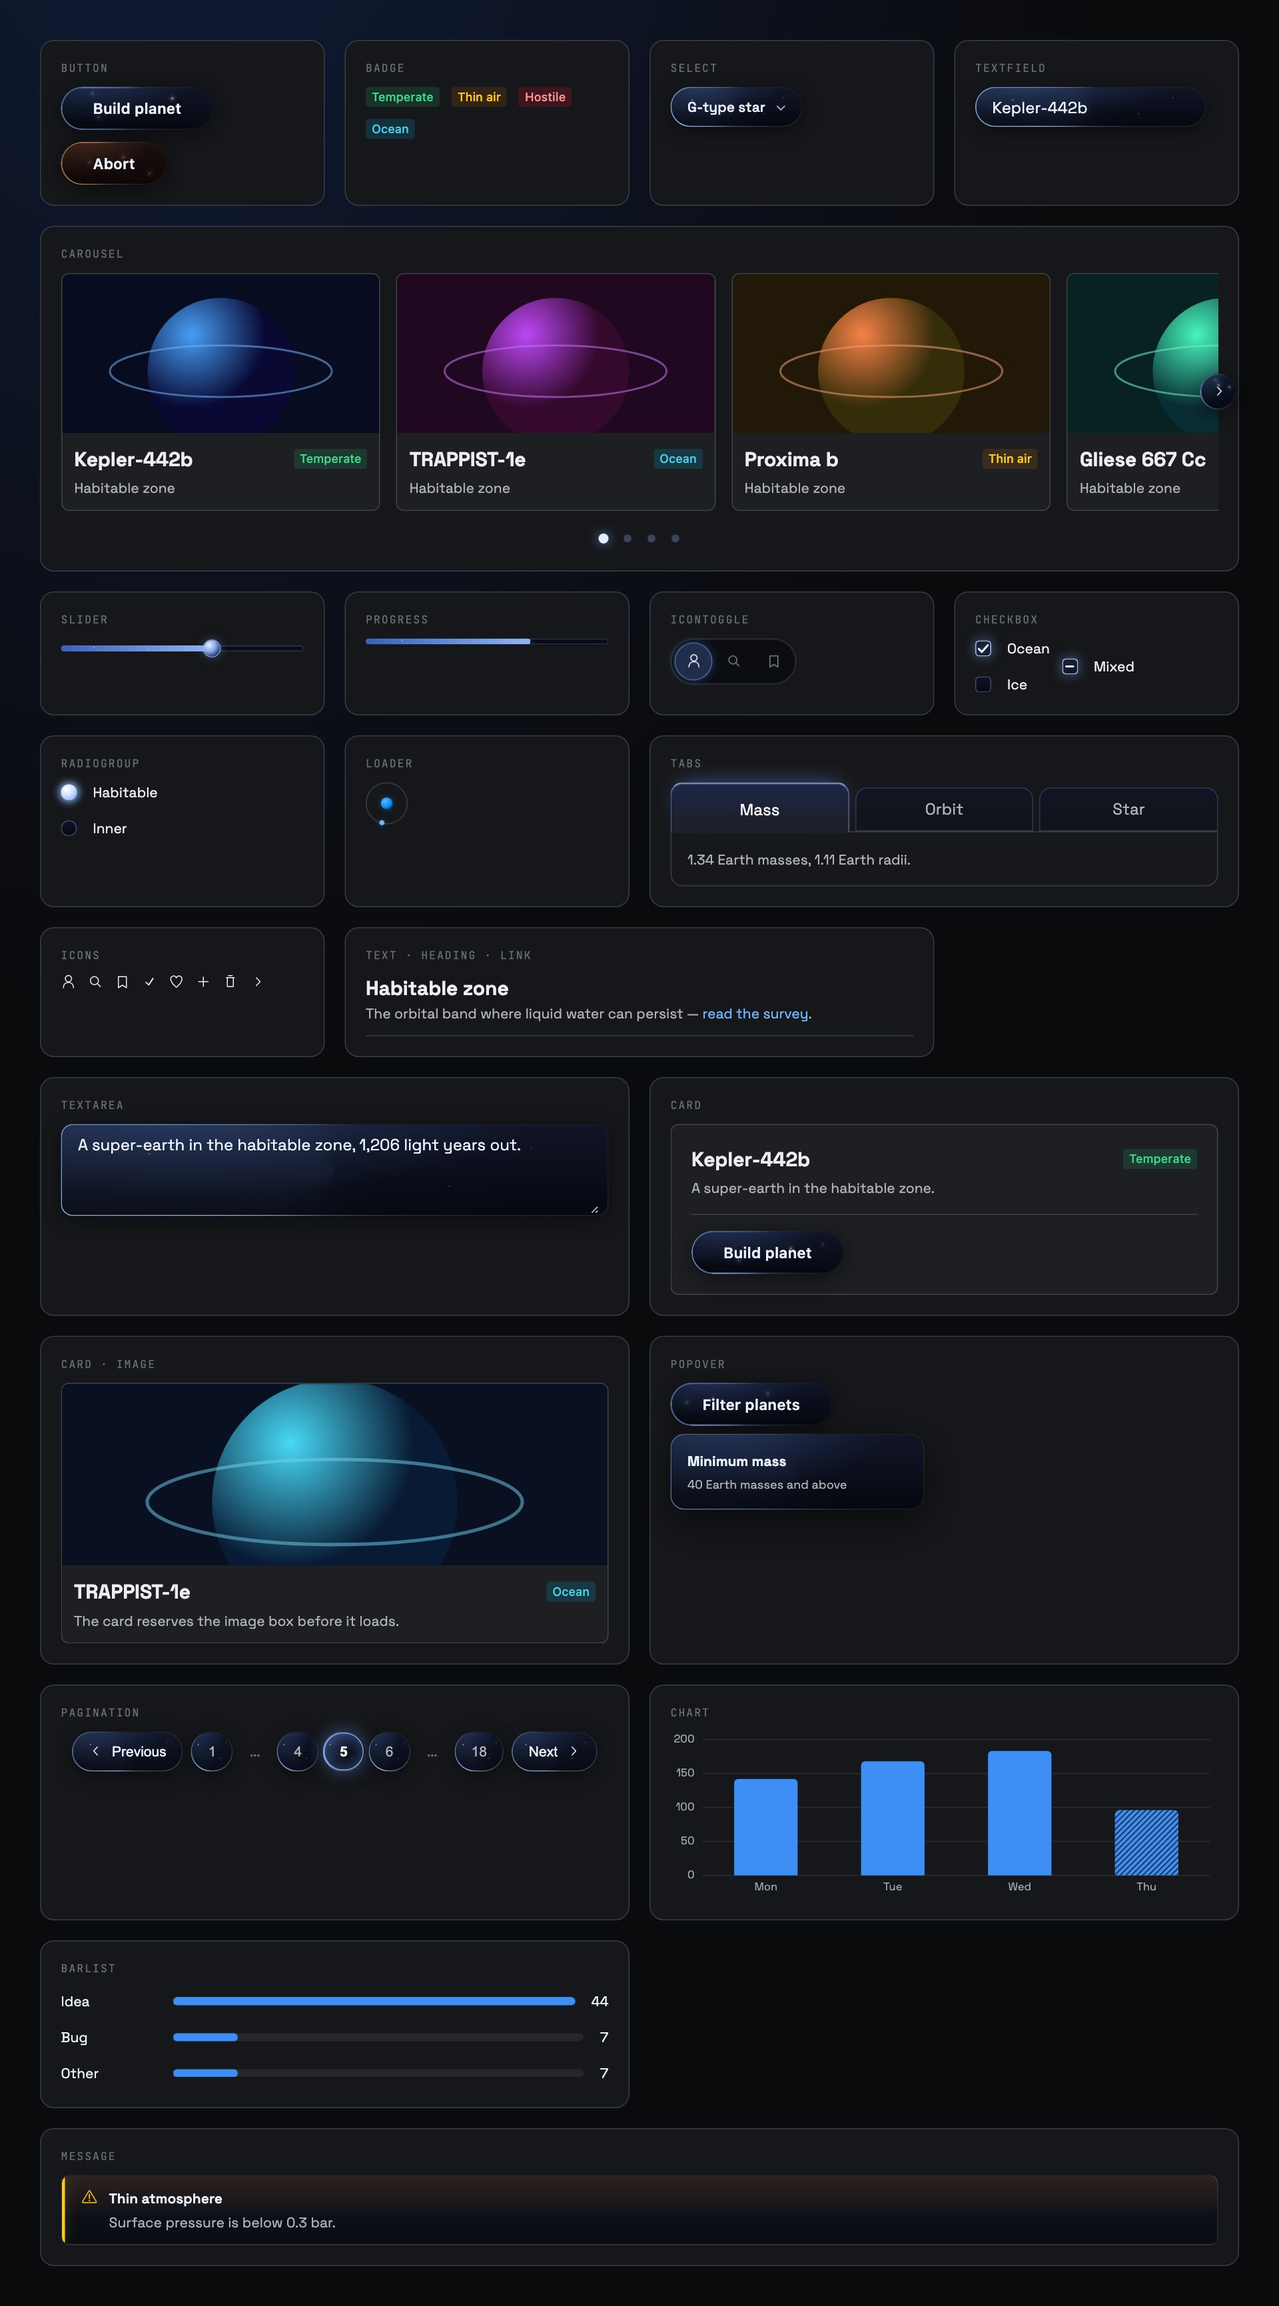
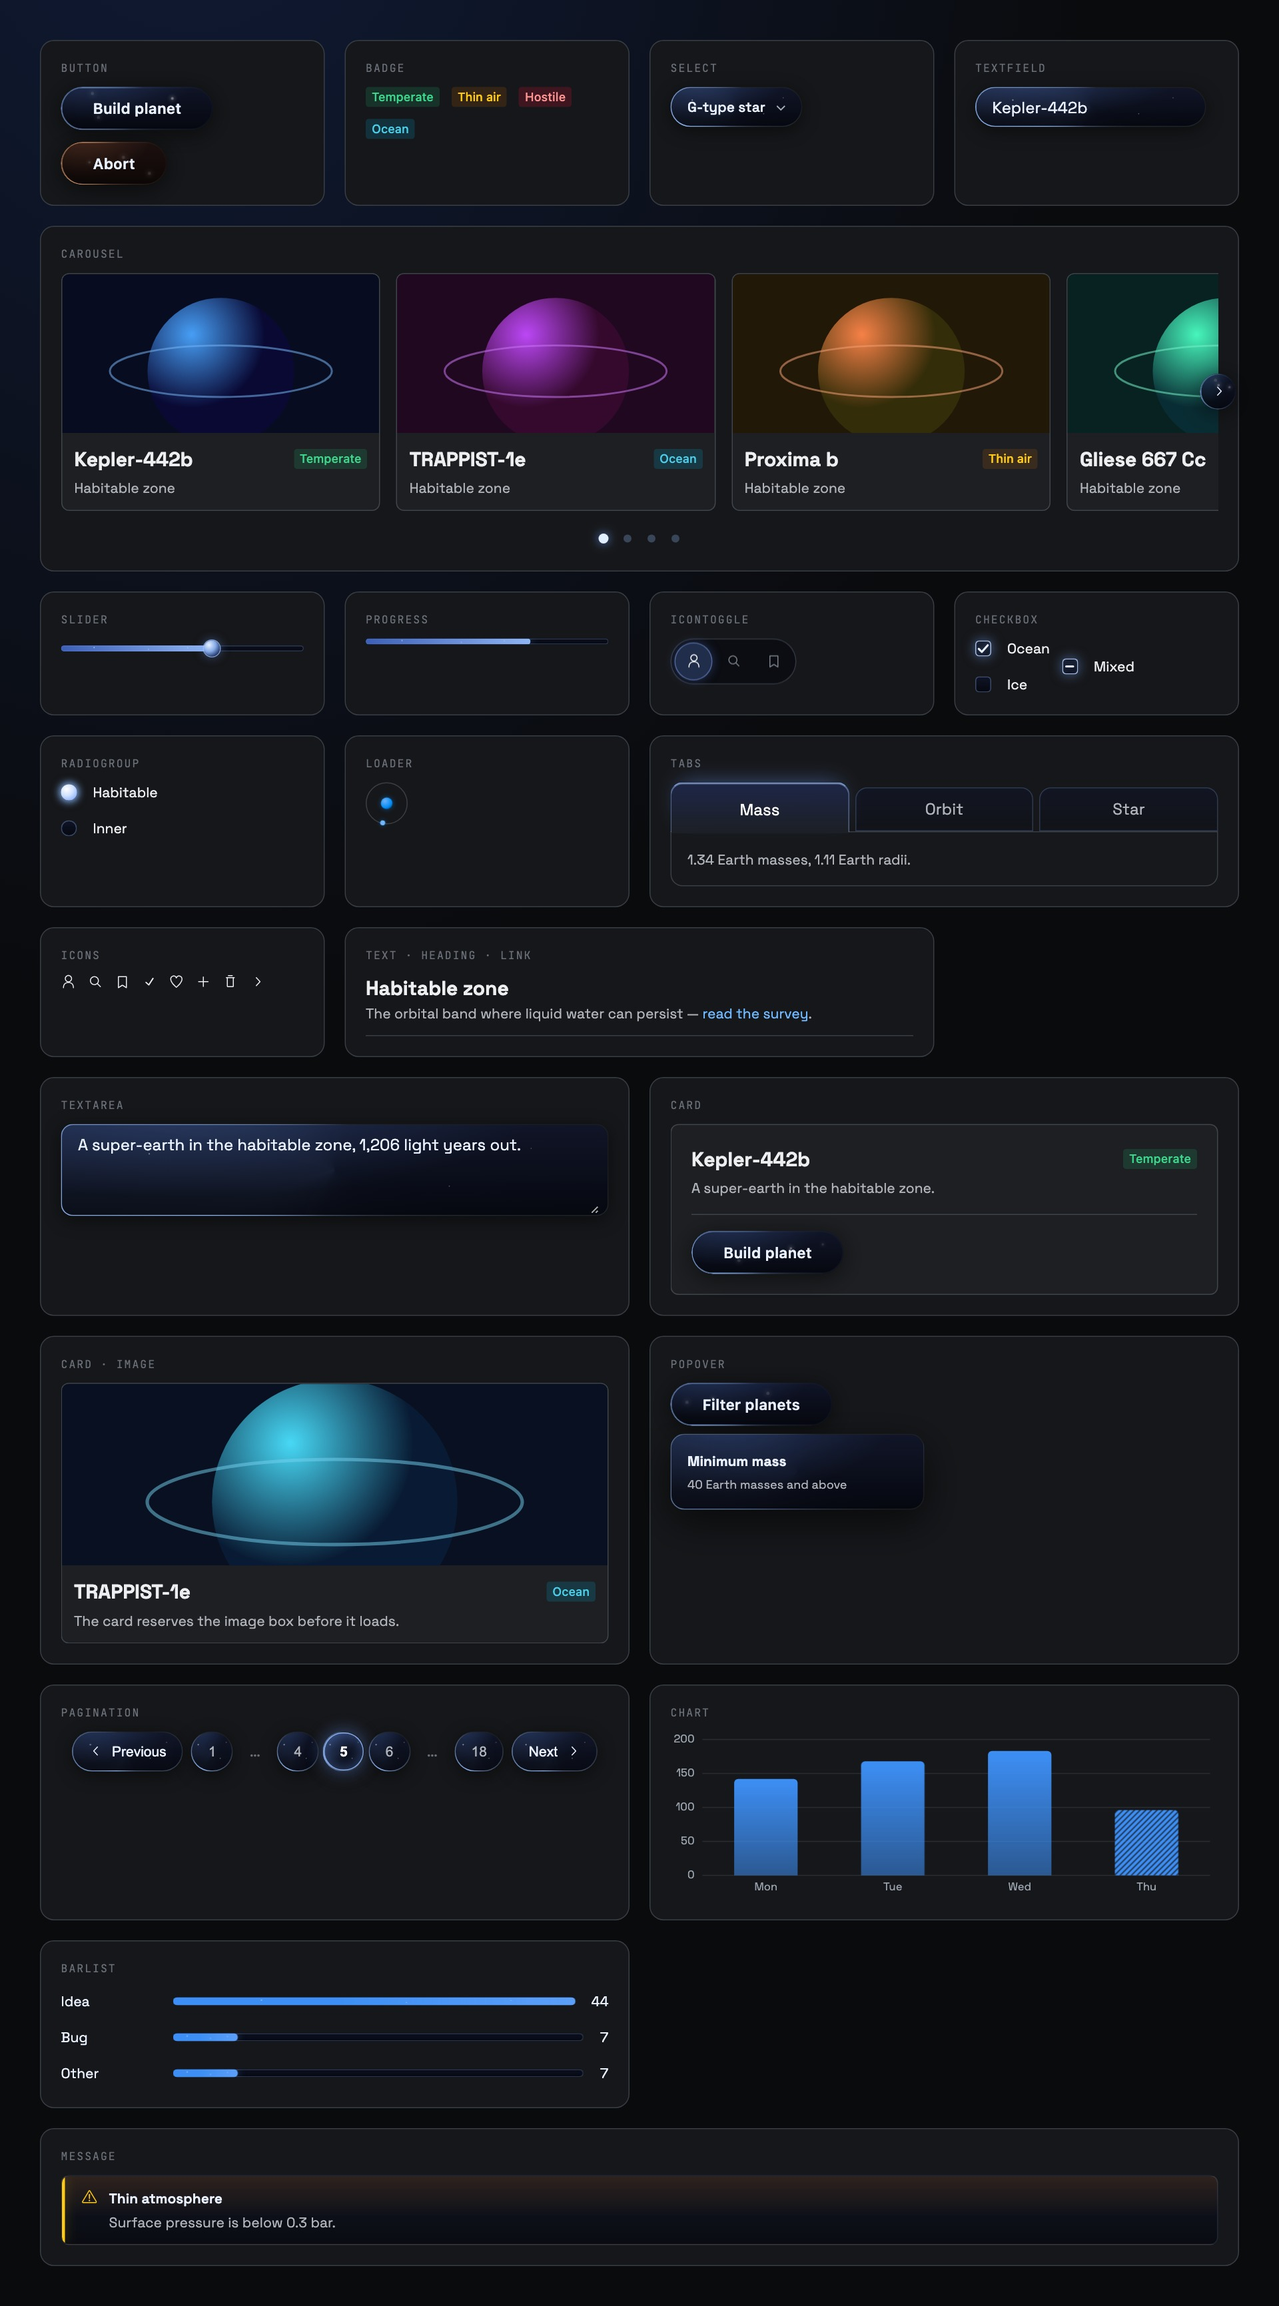
Give the charts the library's own finish
Marks are lit by a gradient rather than painted flat, the poll rows take
the glass tube and starlight fill Progress and Slider use, the line and
the crosshair's marker carry the bloom every lit surface here has, and a
first draw has bars rise from the axis, a line draw itself on and a ring
sweep round.

No bloom on bars: eight glowing bars haze into one another and make the
lengths harder to compare, which is the one thing a bar chart is for.

Changed region(s): [[0.1875, 0.8735, 0.4688, 0.9047], [0.6562, 0.7487, 0.8438, 0.8111], [0.5625, 0.7799, 0.625, 0.8111]]

diff --git a/packages/space-ui/src/components/Chart.tsx b/packages/space-ui/src/components/Chart.tsx
@@ -54,6 +54,11 @@ export interface ChartProps extends Omit<React.HTMLAttributes<HTMLDivElement>, "
   formatValue?: (value: number) => string;
   /** Roughly how many labelled ticks the y axis gets. Default 5. */
   tickCount?: number;
+  /** The lit finish this library gives everything else: marks that catch the
+   *  light, and a first draw where bars rise from the axis and a line draws
+   *  itself on. Default true; a reader who asked for less motion gets the
+   *  finish without the movement either way. */
+  animated?: boolean;
   /** The category index from which the data is still arriving — usually
    *  `categories.length - 1`, today's bar, which will keep growing until the
    *  day ends. Those bars are drawn hatched rather than solid, and the
@@ -107,6 +112,7 @@ export function Chart({
   grid = true,
   formatValue: format = formatValue,
   tickCount = 5,
+  animated = true,
   partialFrom,
   onPointClick,
   className,
@@ -260,6 +266,7 @@ export function Chart({
       {...rest}
       className={cx(styles.root, className)}
       data-type={type}
+      data-animated={animated ? "" : undefined}
       style={{ ...rest.style }}
     >
       <div
@@ -283,6 +290,25 @@ export function Chart({
           aria-labelledby={ariaLabel ? undefined : titleId}
           aria-label={ariaLabel}
         >
+          <defs>
+            {series.map((s2, si) => (
+              <linearGradient key={`grad-${si}`} id={`${titleId}-grad-${si}`} x1="0" y1="0" x2="0" y2="1">
+                {/* The limb again: brightest where the light lands, falling
+                    away into the ground it stands on. */}
+                <stop offset="0%" stopColor={colorOf(si)} stopOpacity="1" />
+                <stop offset="100%" stopColor={colorOf(si)} stopOpacity="0.55" />
+              </linearGradient>
+            ))}
+            {series.map((s2, si) => (
+              <linearGradient key={`area-${si}`} id={`${titleId}-area-${si}`} x1="0" y1="0" x2="0" y2="1">
+                {/* An atmosphere rather than a slab: dense at the line, thinning
+                    to nothing before the axis. */}
+                <stop offset="0%" stopColor={colorOf(si)} stopOpacity="0.45" />
+                <stop offset="100%" stopColor={colorOf(si)} stopOpacity="0.02" />
+              </linearGradient>
+            ))}
+          </defs>
+
           {/* Diagonal stripes in the series' own colour: a bar that is still
               filling reads as unfinished at a glance, and keeps its identity.
               One pattern per series, because a pattern carries its own paint. */}
@@ -357,7 +383,9 @@ export function Chart({
                     key={`bar-${category}-${ci}`}
                     className={cx(styles.bar, onPointClick && styles.clickable)}
                     d={barPath(left, Math.min(top, bottom), drawWidth, drawHeight, 4, value >= 0)}
-                    fill={stillCounting ? `url(#${titleId}-hatch-${si})` : colorOf(si)}
+                    fill={stillCounting ? `url(#${titleId}-hatch-${si})` : `url(#${titleId}-grad-${si})`}
+                    // currentColor is what the glow in the stylesheet burns.
+                    color={colorOf(si)}
                     data-dim={hover && hover.index !== ci ? "" : undefined}
                     onClick={() => report(si, ci)}
                   >
@@ -397,8 +425,17 @@ export function Chart({
                     : null;
                   return (
                     <g key={`run-${ri}`}>
-                      {area && <path className={styles.area} d={area} fill={colorOf(si)} />}
-                      <path className={styles.line} d={line} stroke={colorOf(si)} fill="none" />
+                      {area && (
+                        <path className={styles.area} d={area} fill={`url(#${titleId}-area-${si})`} />
+                      )}
+                      <path
+                        className={styles.line}
+                        d={line}
+                        stroke={colorOf(si)}
+                        color={colorOf(si)}
+                        fill="none"
+                        pathLength={1}
+                      />
                     </g>
                   );
                 })}
@@ -413,6 +450,7 @@ export function Chart({
                       cy={y(baseline[si][ci] + value)}
                       r={4}
                       fill={colorOf(si)}
+                      color={colorOf(si)}
                       data-on={hover?.index === ci ? "" : undefined}
                       onClick={() => report(si, ci)}
                     >

diff --git a/packages/space-ui/src/components/Chart.module.scss b/packages/space-ui/src/components/Chart.module.scss
@@ -49,8 +49,20 @@
   font-family: inherit;
 }
 
+/* A bar is lit by its gradient alone — bright where the light lands, falling
+   away to its base. No bloom: a row of glowing bars hazes into itself and
+   makes the lengths, which are the whole point, harder to compare. The glow
+   stays on the line and the dots, where there is one mark rather than eight. */
 .bar {
   transition: opacity 0.15s ease;
+
+  /* Rising from the axis, not fading in: a bar means a length, and growing
+     it is the one animation that says so. */
+  .root[data-animated] & {
+    transform-box: fill-box;
+    transform-origin: bottom;
+    animation: sp-chart-rise 0.52s cubic-bezier(0.16, 0.84, 0.44, 1) both;
+  }
 
   /* Dimmed, not hidden: the bars away from the pointer stay legible, while
      the one being read comes forward. */
@@ -74,6 +86,35 @@
   stroke-width: var(--sp-chart-line-width);
   stroke-linecap: round;
   stroke-linejoin: round;
+  /* The trail a moving thing leaves — the same bloom the slider's fill has. */
+  filter: drop-shadow(0 0 5px currentColor);
+
+  /* Drawn on rather than appearing, which is what the tick in Checkbox does:
+     pathLength 1 makes the length of any line exactly 1 to animate. */
+  .root[data-animated] & {
+    stroke-dasharray: 1;
+    animation: sp-chart-draw 0.72s cubic-bezier(0.22, 0.68, 0.32, 1) both;
+  }
+}
+
+@keyframes sp-chart-rise {
+  from {
+    transform: scaleY(0);
+    opacity: 0.4;
+  }
+  to {
+    transform: scaleY(1);
+    opacity: 1;
+  }
+}
+
+@keyframes sp-chart-draw {
+  from {
+    stroke-dashoffset: 1;
+  }
+  to {
+    stroke-dashoffset: 0;
+  }
 }
 
 /* Low enough that two overlapping areas both stay readable, and that the grid
@@ -86,15 +127,18 @@
    a dot on every point of a long series is noise. */
 .dot {
   opacity: 0;
-  transition: opacity 0.15s ease;
+  transition: opacity 0.15s ease, filter 0.15s ease;
 
+  /* Lit like the radio orb when the crosshair reaches it. */
   &[data-on] {
     opacity: 1;
+    filter: drop-shadow(0 0 6px currentColor);
   }
 }
 
+/* A shaft of light down the category being read, rather than a ruled line. */
 .crosshair {
-  stroke: var(--sp-chart-axis-color);
+  stroke: rgb(var(--sp-glow-rgb) / 0.5);
   stroke-width: 1;
   stroke-dasharray: 3 3;
   pointer-events: none;
@@ -106,7 +150,7 @@
 
 /* The reading under the pointer. Inside the plot rather than in the top
    layer: it belongs to the chart, follows it when the page moves, and never
-   needs to escape its box. */
+   needs to escape its box. The same glass as every other floating surface. */
 .tooltip {
   position: absolute;
   top: var(--sp-grid-base-size, 8px);
@@ -187,4 +231,12 @@
   clip-path: inset(50%);
   white-space: nowrap;
   border: 0;
+}
+
+/* The finish stays; only the movement goes. */
+@media (prefers-reduced-motion: reduce) {
+  .root[data-animated] .bar,
+  .root[data-animated] .line {
+    animation: none;
+  }
 }

diff --git a/packages/space-ui/src/components/charts.interaction.test.tsx b/packages/space-ui/src/components/charts.interaction.test.tsx
@@ -54,9 +54,18 @@ describe("Chart", () => {
 
   it("gives every series its own colour, in the palette's order", () => {
     const { container } = render(<Chart type="bar" categories={PLANETS} series={two} aria-label="Colours" />);
-    const fills = [...container.querySelectorAll("path[fill]")].map((p) => p.getAttribute("fill"));
-    expect(fills).toContain("var(--sp-chart-series-1-color)");
-    expect(fills).toContain("var(--sp-chart-series-2-color)");
+    // A bar is painted with a gradient of its series colour — lit at the top,
+    // deeper at the base — so the colour is in the gradient's stops.
+    const stops = [...container.querySelectorAll("linearGradient stop")].map((s2) =>
+      s2.getAttribute("stop-color"),
+    );
+    expect(stops).toContain("var(--sp-chart-series-1-color)");
+    expect(stops).toContain("var(--sp-chart-series-2-color)");
+    // And on the mark itself, which is what its glow burns.
+    const colors = [...container.querySelectorAll("path[color]")].map((p) => p.getAttribute("color"));
+    expect(new Set(colors)).toEqual(
+      new Set(["var(--sp-chart-series-1-color)", "var(--sp-chart-series-2-color)"]),
+    );
   });
 
   it("hatches the categories still being counted, and says so in the figures", () => {
@@ -69,9 +78,10 @@ describe("Chart", () => {
         aria-label="Builds"
       />,
     );
-    // The unfinished bar is painted with a pattern rather than the flat colour.
-    const fills = [...container.querySelectorAll("path[fill]")].map((p) => p.getAttribute("fill"));
-    expect(fills.filter((f) => f?.startsWith("url(#"))).toHaveLength(1);
+    // The unfinished bar is striped; the finished ones take the solid gradient.
+    const fills = [...container.querySelectorAll("path[fill]")].map((p) => p.getAttribute("fill") ?? "");
+    expect(fills.filter((f) => f.includes("-hatch-"))).toHaveLength(1);
+    expect(fills.filter((f) => f.includes("-grad-"))).toHaveLength(2);
     expect(container.querySelector("pattern")).not.toBeNull();
     expect(within(screen.getByRole("table")).getByText(/30 so far/)).toBeInTheDocument();
   });

diff --git a/packages/space-ui/src/components/BarList.module.scss b/packages/space-ui/src/components/BarList.module.scss
@@ -55,19 +55,44 @@
   white-space: nowrap;
 }
 
+/* The same glass tube Progress and Slider use — a row of poll results and a
+   meter are the same object, one counted and one measured. */
 .track {
   position: relative;
   height: var(--sp-bar-list-track-height, 8px);
-  border-radius: var(--sp-chart-mark-radius-size);
-  background: var(--sp-chart-track-color);
+  border-radius: 999px;
+  background: linear-gradient(
+    180deg,
+    rgb(var(--sp-glass-rgb) / 0.92),
+    rgb(var(--sp-glass-deep-rgb) / 0.96)
+  );
+  box-shadow:
+    inset 0 0 0 1px rgb(var(--sp-rim-rgb) / 0.25),
+    inset 0 1px 3px rgb(var(--sp-shadow-rgb) / 0.65);
   overflow: hidden;
 }
 
+/* A starlight trail in the row's own colour: specks along it, a lit leading
+   edge, and the bloom that every filled thing here carries. */
 .fill {
+  position: relative;
   display: block;
   height: 100%;
   border-radius: inherit;
+  box-shadow: 0 0 10px rgb(var(--sp-glow-rgb) / 0.35);
   transition: width 0.4s cubic-bezier(0.16, 0.84, 0.44, 1);
+
+  &::after {
+    content: "";
+    position: absolute;
+    inset: 0;
+    border-radius: inherit;
+    background:
+      radial-gradient(1.2px 1.2px at 22% 35%, rgb(var(--sp-star-rgb) / 0.85), transparent 70%),
+      radial-gradient(1px 1px at 58% 65%, rgb(var(--sp-star-rgb) / 0.6), transparent 70%),
+      radial-gradient(1px 1px at 84% 40%, rgb(var(--sp-star-rgb) / 0.5), transparent 70%),
+      linear-gradient(90deg, transparent 40%, rgb(var(--sp-rim-rgb) / 0.35));
+  }
 }
 
 .value {

diff --git a/packages/space-ui/src/components/PieChart.module.scss b/packages/space-ui/src/components/PieChart.module.scss
@@ -19,13 +19,34 @@
 
 /* The surface showing between slices, rather than a stroke of some other
    colour: it reads as a gap at any size and against any ground. */
+/* The surface showing between slices, rather than a stroke of some other
+   colour: it reads as a gap at any size and against any ground. Each slice
+   carries the same bloom the other lit surfaces here do. */
 .slice {
   stroke: var(--sp-gray-panel);
   stroke-width: var(--sp-pie-chart-gap-size, 2px);
-  transition: opacity 0.15s ease;
+  filter: drop-shadow(0 0 6px currentColor);
+  transition: opacity 0.15s ease, filter 0.15s ease;
 
   &[data-dim] {
     opacity: 0.4;
+    filter: none;
+  }
+}
+
+/* The ring sweeps round on its first draw, the way a dial fills. */
+.root[data-animated] .svg {
+  animation: sp-pie-sweep 0.6s cubic-bezier(0.16, 0.84, 0.44, 1) both;
+}
+
+@keyframes sp-pie-sweep {
+  from {
+    clip-path: inset(0 0 0 50%);
+    opacity: 0;
+  }
+  to {
+    clip-path: inset(0);
+    opacity: 1;
   }
 }
 
@@ -33,8 +54,11 @@
   cursor: pointer;
 }
 
+/* The figure in the middle is the brightest thing in the component: it is
+   what the ring is there to say. */
 .total {
-  fill: var(--sp-glass-text);
+  fill: var(--sp-glint-rgb, var(--sp-on-solid));
+  fill: rgb(var(--sp-glint-rgb));
   font-size: 20px;
   font-weight: 600;
   font-variant-numeric: tabular-nums;
@@ -95,5 +119,9 @@
   .slice,
   .legendItem {
     transition: none;
+  }
+
+  .root[data-animated] .svg {
+    animation: none;
   }
 }

diff --git a/packages/space-ui/src/components/PieChart.tsx b/packages/space-ui/src/components/PieChart.tsx
@@ -27,6 +27,8 @@ export interface PieChartProps extends Omit<React.HTMLAttributes<HTMLDivElement>
   size?: number;
   /** Show the legend. Default true: a pie without one is a colour quiz. */
   legend?: boolean;
+  /** The lit finish, and the sweep on its first draw. Default true. */
+  animated?: boolean;
   /** How a value is written, in the legend and the middle. */
   formatValue?: (value: number) => string;
   /** Called when a slice is chosen. */
@@ -62,6 +64,7 @@ export function PieChart({
   label,
   size = 180,
   legend = true,
+  animated = true,
   formatValue: format = formatValue,
   onSliceClick,
   className,
@@ -107,7 +110,7 @@ export function PieChart({
   const originalIndex = (slice: PieSlice) => slices.indexOf(slice);
 
   return (
-    <div {...rest} className={cx(styles.root, className)}>
+    <div {...rest} className={cx(styles.root, className)} data-animated={animated ? "" : undefined}>
       <svg
         className={styles.svg}
         width={size}

diff --git a/.changeset/charts.md b/.changeset/charts.md
@@ -11,3 +11,5 @@ Add a charts section: `Chart`, `BarList` and `PieChart`.
 Everything is drawn as plain SVG from the library's own arithmetic: no charting dependency. Spacing is whole grid units from `--sp-grid-base-size` — these are the first components built on it — and the colours are tokens.
 
 The series palette, `--sp-chart-series-1-color` through `-8-`, is an order rather than a pool: the first series is always the first colour, so hiding one never repaints the others. The steps are the library's own hues moved into the band a mark needs on the dark ground, ordered for colour-blind separation and measured rather than judged: every adjacent pair clears ΔE 8.6 under protanopia and deuteranopia, 23.0 for normal vision, and all eight clear 3:1 against the panel.
+
+They are finished like the rest of the library: marks lit by a gradient rather than painted flat, a starlight fill in the same glass tube Progress and Slider use, a bloom on the line and the crosshair's marker, and a first draw where bars rise from the axis, a line draws itself on and a ring sweeps round. `animated={false}` keeps the finish without the movement, and reduced motion does the same on its own. Bars carry no bloom on purpose: eight glowing bars haze into each other and make the lengths harder to compare, which is the one thing a bar chart is for.

diff --git a/README.md b/README.md
@@ -4,7 +4,7 @@
 
 [![npm](https://img.shields.io/npm/v/@inkorange/space-ui)](https://www.npmjs.com/package/@inkorange/space-ui)
 ![coverage](https://img.shields.io/badge/coverage-93%25-brightgreen)
-![minzip](https://img.shields.io/badge/minzip-39.4%20kB-blue)
+![minzip](https://img.shields.io/badge/minzip-39.9%20kB-blue)
 ![dependencies](https://img.shields.io/badge/dependencies-0-blue)
 [![docs](https://img.shields.io/badge/docs-live%20gallery-0b7dd6)](https://space-components.vercel.app)
 
